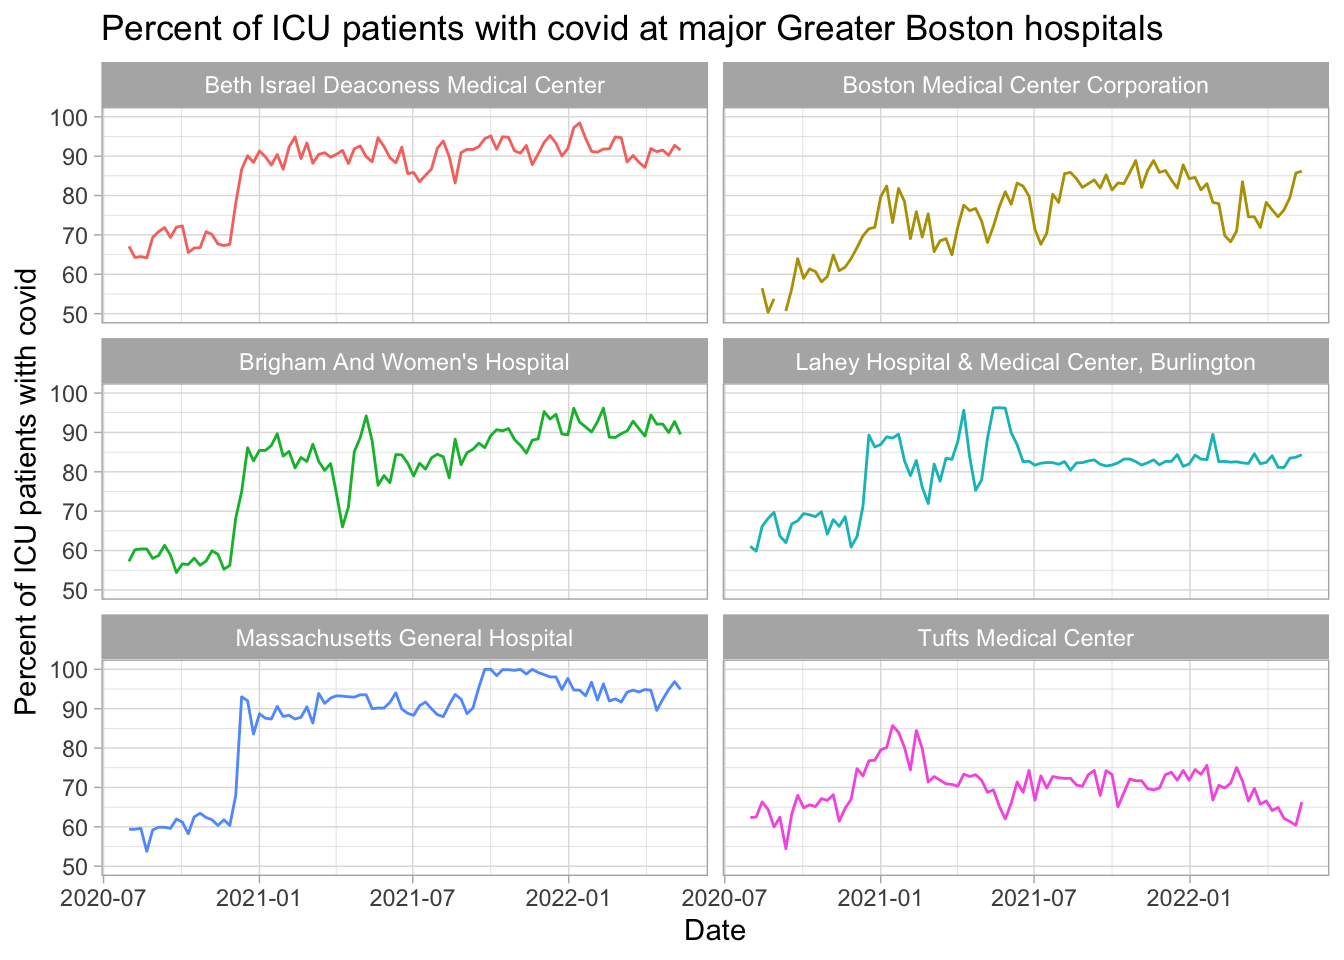
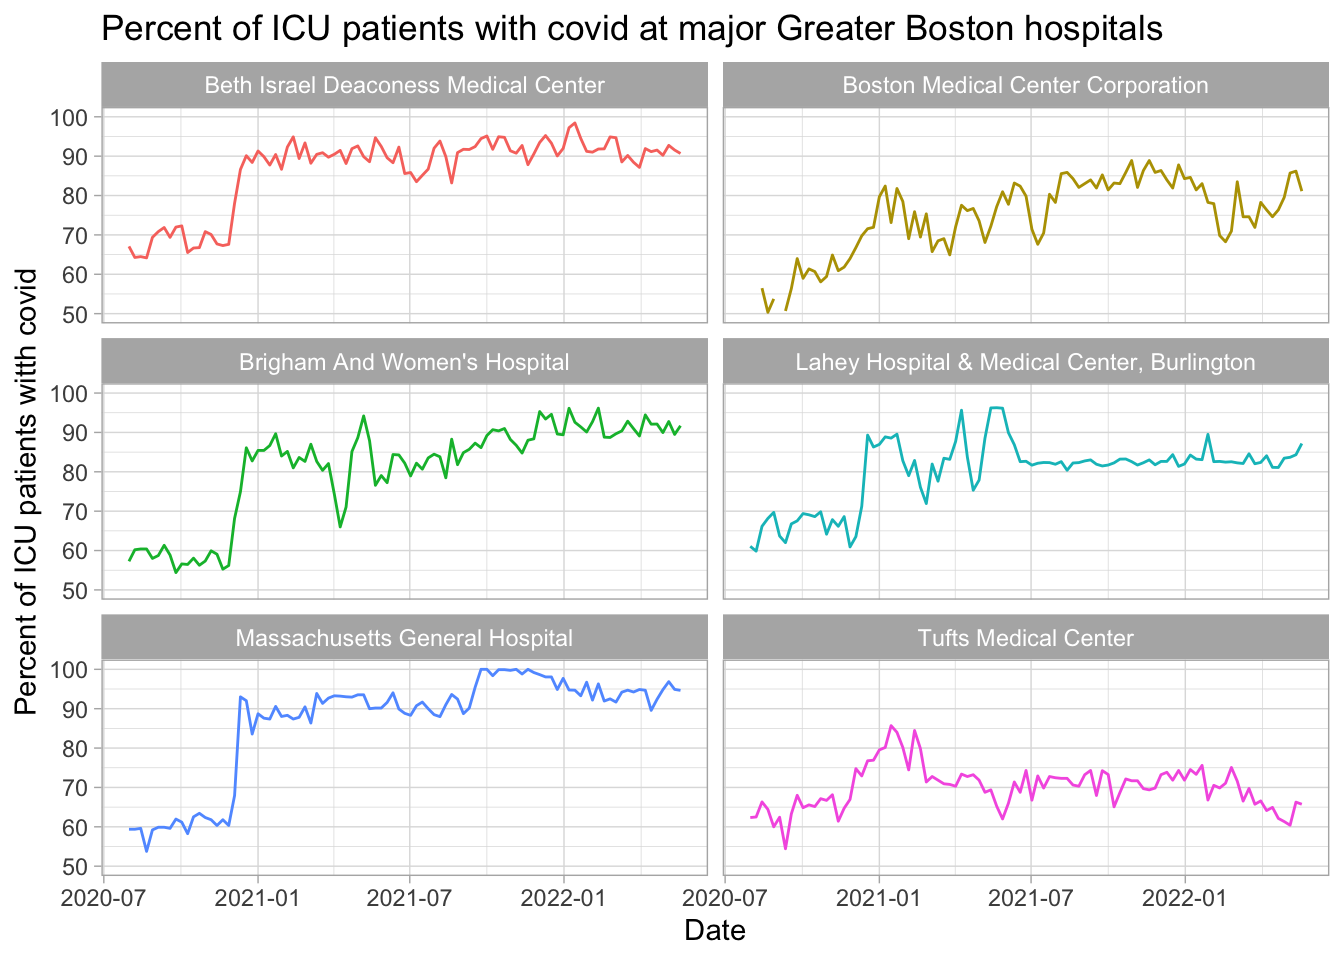
updated data

diff --git a/docs/index.html b/docs/index.html
@@ -310,7 +310,7 @@ it could indicate that many other cases are being missed).</p>
 <p>The US Department of Health and Human Services gives data on hospital
 usage. Here are data of ICU bed availability for hospitals in this area
 with at least 25 staffed ICU beds, using data from the week starting
-2022-05-13.</p>
+2022-05-20.</p>
 <table>
 <colgroup>
 <col width="46%" />
@@ -329,45 +329,45 @@ with at least 25 staffed ICU beds, using data from the week starting
 <tbody>
 <tr class="odd">
 <td align="left">Beth Israel Deaconess Medical Center</td>
-<td align="right">11</td>
-<td align="right">133</td>
-<td align="right">92</td>
+<td align="right">12</td>
+<td align="right">134</td>
+<td align="right">91</td>
 </tr>
 <tr class="even">
 <td align="left">Boston Children’s Hospital</td>
 <td align="right">6</td>
 <td align="right">107</td>
-<td align="right">94</td>
-</tr>
-<tr class="odd">
-<td align="left">Boston Medical Center Corporation</td>
-<td align="right">15</td>
-<td align="right">88</td>
-<td align="right">83</td>
-</tr>
-<tr class="even">
-<td align="left">Brigham And Women’s Hospital</td>
-<td align="right">10</td>
-<td align="right">141</td>
-<td align="right">93</td>
-</tr>
-<tr class="odd">
-<td align="left">Lahey Hospital &amp; Medical Center, Burlington</td>
-<td align="right">9</td>
-<td align="right">55</td>
-<td align="right">84</td>
-</tr>
-<tr class="even">
-<td align="left">Massachusetts General Hospital</td>
-<td align="right">7</td>
-<td align="right">147</td>
 <td align="right">95</td>
 </tr>
 <tr class="odd">
+<td align="left">Boston Medical Center Corporation</td>
+<td align="right">16</td>
+<td align="right">88</td>
+<td align="right">82</td>
+</tr>
+<tr class="even">
+<td align="left">Brigham And Women’s Hospital</td>
+<td align="right">8</td>
+<td align="right">144</td>
+<td align="right">94</td>
+</tr>
+<tr class="odd">
+<td align="left">Lahey Hospital &amp; Medical Center, Burlington</td>
+<td align="right">7</td>
+<td align="right">55</td>
+<td align="right">87</td>
+</tr>
+<tr class="even">
+<td align="left">Massachusetts General Hospital</td>
+<td align="right">6</td>
+<td align="right">147</td>
+<td align="right">96</td>
+</tr>
+<tr class="odd">
 <td align="left">Tufts Medical Center</td>
-<td align="right">54</td>
+<td align="right">52</td>
 <td align="right">129</td>
-<td align="right">58</td>
+<td align="right">60</td>
 </tr>
 </tbody>
 </table>
@@ -379,7 +379,7 @@ in the state:</p>
 <p>And those intubated:</p>
 <p><img src="index_files/figure-html/unnamed-chunk-7-1.png" width="672" /></p>
 <p>Plotting percentage of ICU patients with covid over time (up to the
-week starting 2022-05-13). Some hospitals have much more frequently
+week starting 2022-05-20). Some hospitals have much more frequently
 updated data than others; some is fairly gappy. This just plots the
 hospitals that average at least 25 staffed <em>adult</em> ICU beds per
 week.</p>

diff --git a/docs/individualhospitals.html b/docs/individualhospitals.html
@@ -305,45 +305,45 @@ usage. Here are data for hospitals in this area.</p>
 <tbody>
 <tr class="odd">
 <td align="left">Beth Israel Deaconess Medical Center</td>
-<td align="right">11</td>
-<td align="right">133</td>
-<td align="right">92</td>
+<td align="right">12</td>
+<td align="right">134</td>
+<td align="right">91</td>
 </tr>
 <tr class="even">
 <td align="left">Boston Children’s Hospital</td>
 <td align="right">6</td>
 <td align="right">107</td>
-<td align="right">94</td>
-</tr>
-<tr class="odd">
-<td align="left">Boston Medical Center Corporation</td>
-<td align="right">15</td>
-<td align="right">88</td>
-<td align="right">83</td>
-</tr>
-<tr class="even">
-<td align="left">Brigham And Women’s Hospital</td>
-<td align="right">10</td>
-<td align="right">141</td>
-<td align="right">93</td>
-</tr>
-<tr class="odd">
-<td align="left">Lahey Hospital &amp; Medical Center, Burlington</td>
-<td align="right">9</td>
-<td align="right">55</td>
-<td align="right">84</td>
-</tr>
-<tr class="even">
-<td align="left">Massachusetts General Hospital</td>
-<td align="right">7</td>
-<td align="right">147</td>
 <td align="right">95</td>
 </tr>
 <tr class="odd">
+<td align="left">Boston Medical Center Corporation</td>
+<td align="right">16</td>
+<td align="right">88</td>
+<td align="right">82</td>
+</tr>
+<tr class="even">
+<td align="left">Brigham And Women’s Hospital</td>
+<td align="right">8</td>
+<td align="right">144</td>
+<td align="right">94</td>
+</tr>
+<tr class="odd">
+<td align="left">Lahey Hospital &amp; Medical Center, Burlington</td>
+<td align="right">7</td>
+<td align="right">55</td>
+<td align="right">87</td>
+</tr>
+<tr class="even">
+<td align="left">Massachusetts General Hospital</td>
+<td align="right">6</td>
+<td align="right">147</td>
+<td align="right">96</td>
+</tr>
+<tr class="odd">
 <td align="left">Tufts Medical Center</td>
-<td align="right">54</td>
+<td align="right">52</td>
 <td align="right">129</td>
-<td align="right">58</td>
+<td align="right">60</td>
 </tr>
 </tbody>
 </table>
